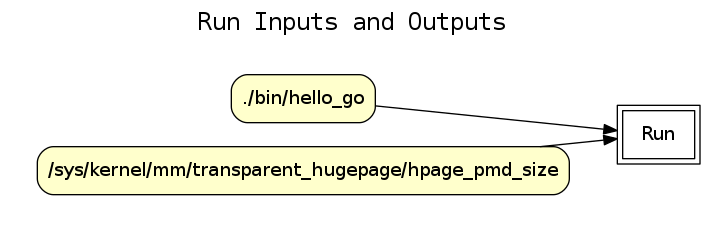
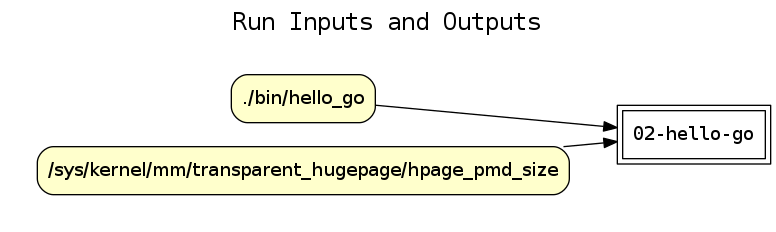
Now capturing run name and rendering in run graph

Changed region(s): [[0.0312, 0.3017, 0.9986, 0.8448], [0.2809, 0.0302, 0.7177, 0.1509]]

diff --git a/go/reprozip/trace.go b/go/reprozip/trace.go
@@ -15,7 +15,7 @@ var (
 	WorkingDirFileIndex     int64
 )
 
-func ExtractTrace(traceDir string) {
+func ExtractTrace(runName string, traceDir string) {
 
 	db, err := sql.Open("sqlite3", traceDir+"/trace.sqlite3")
 	if err != nil {
@@ -23,7 +23,14 @@ func ExtractTrace(traceDir string) {
 	}
 
 	processes := GetProcesses(db)
-	FirstProcessID = processes[0].ID
+	firstProcess := processes[0]
+	FirstProcessID = firstProcess.ID
+	runId := firstProcess.RunID
+
+	run := NewRun(runId, runName)
+	printRowHeader("rpz_run(RunID, RunName).")
+	fmt.Println(run)
+
 	printRowHeader("rpz_process(ProcessID, ParentID, RunID, IsThread, ExitCode, TimeStamp).")
 	for _, p := range processes {
 		fmt.Println(p)

diff --git a/go/cmd/rpz2prolog/rpz2prolog.go b/go/cmd/rpz2prolog/rpz2prolog.go
@@ -24,6 +24,7 @@ func main() {
 	var err error
 
 	flags := MW.InitFlagSet()
+	var name = flags.String("n", "", "Name of run")
 	var mask = flags.Bool("m", false, "Mask unrepeatable attributes")
 	var ignore = flags.Bool("i", false, "Ignore files written by the first process")
 
@@ -40,7 +41,7 @@ func main() {
 	switch flags.NArg() {
 	case 1:
 		traceDirectory := flags.Arg(0)
-		reprozip.ExtractTrace(traceDirectory)
+		reprozip.ExtractTrace(*name, traceDirectory)
 	default:
 		flags.Usage()
 		return

diff --git a/go/reprozip/run.go b/go/reprozip/run.go
@@ -1,0 +1,23 @@
+package reprozip
+
+import (
+	"fmt"
+	"strconv"
+)
+
+type Run struct {
+	RunID   int64
+	RunName string
+}
+
+func NewRun(runId int64, runName string) Run {
+	if runName == "" {
+		runName = "run" + strconv.FormatInt(runId, 10)
+	}
+	return Run{runId, runName}
+}
+
+func (r Run) String() string {
+	return fmt.Sprintf("rpz_run(%s, %s).",
+		R(r.RunID), Q(r.RunName))
+}
